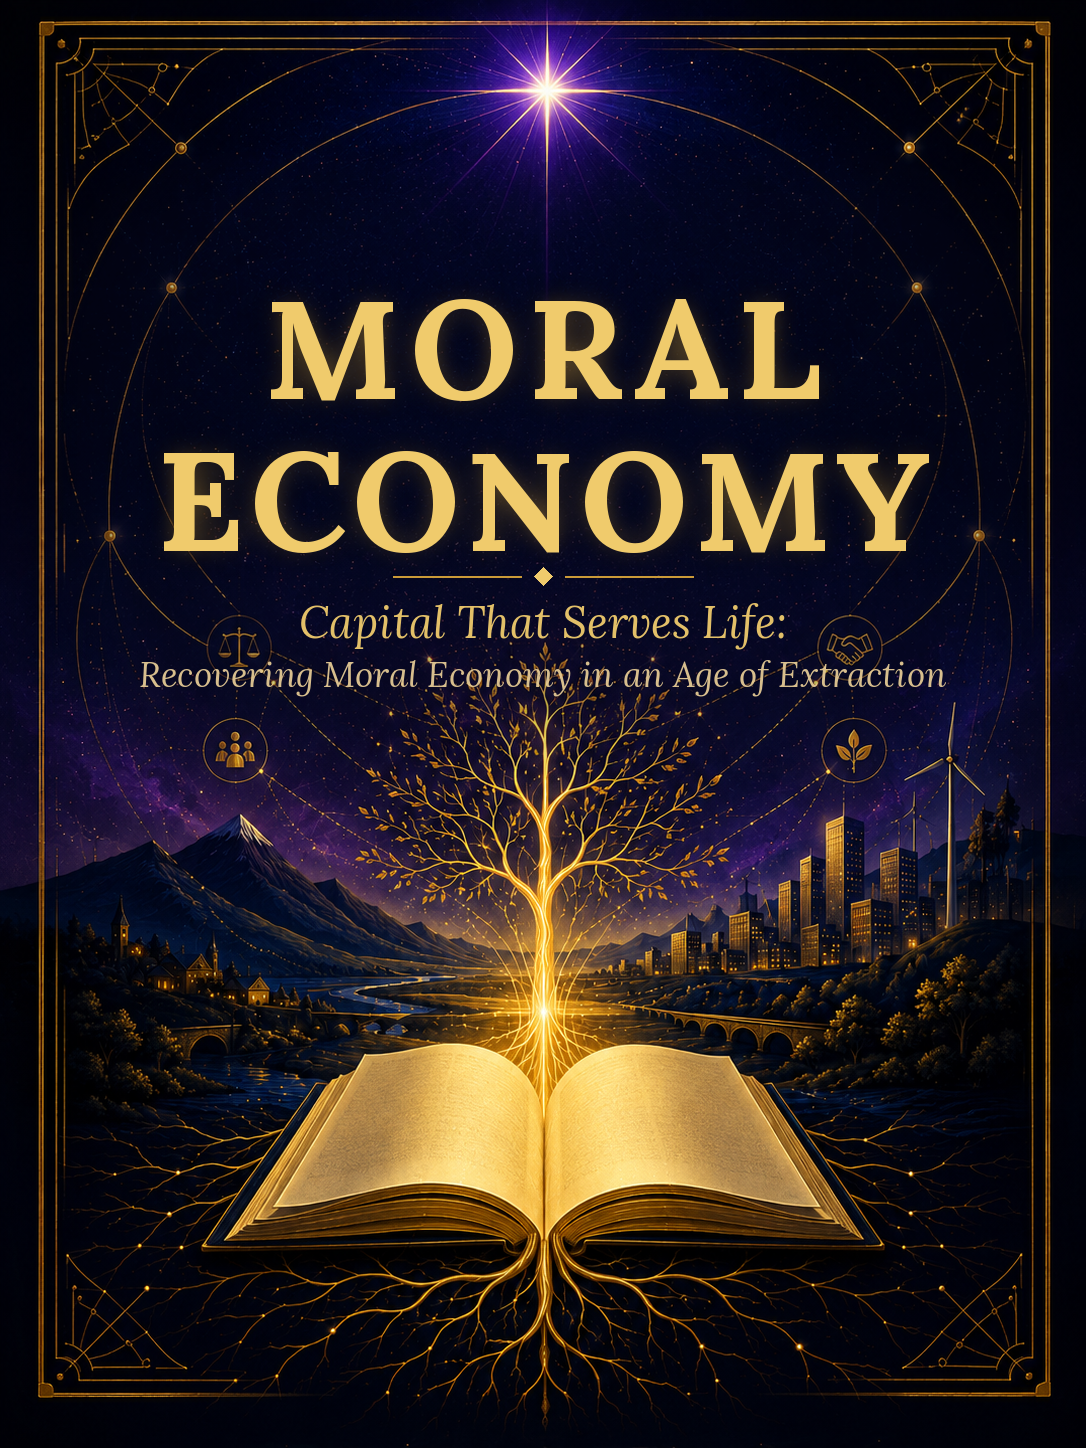
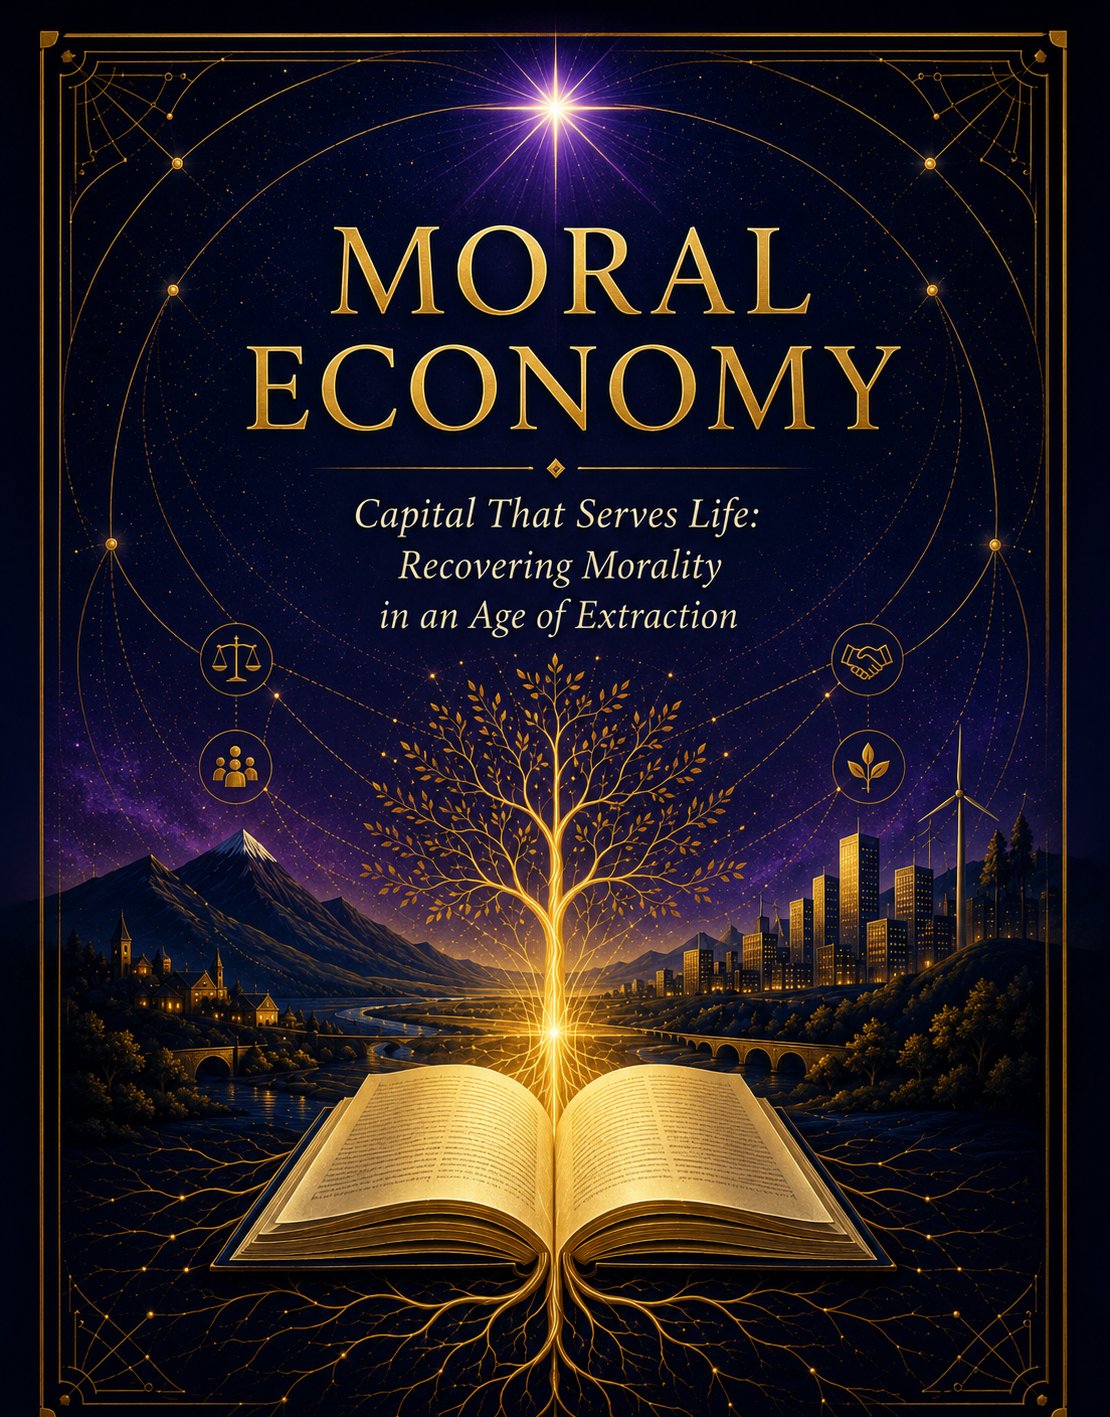
Swap in the finished ChatGPT Moral Economy cover; align subtitle
Use the finished ChatGPT-generated cover (title baked in) in place of the
composited one, and set the reader's subtitle to match it: 'Capital That
Serves Life: Recovering Morality in an Age of Extraction' (book.json + social
tags). Retire the typeset pipeline (tools/title_cover.py + raw art) now that
the cover is a single finished image like the sibling covers.

diff --git a/artifacts/book-reader/index.html b/artifacts/book-reader/index.html
@@ -4,14 +4,14 @@
     <meta charset="UTF-8" />
     <meta name="viewport" content="width=device-width, initial-scale=1.0, maximum-scale=1" />
     <title>Moral Economy</title>
-    <meta name="description" content="Moral Economy (Capital That Serves Life): recovering moral economy in an age of extraction. A reader on ownership, finance, stewardship, and an economy ordered toward life. Read the working manuscript online." />
+    <meta name="description" content="Moral Economy (Capital That Serves Life): recovering morality in an age of extraction. A reader on ownership, finance, stewardship, and an economy ordered toward life. Read the working manuscript online." />
     <meta name="robots" content="index, follow" />
     <meta property="og:title" content="Moral Economy" />
-    <meta property="og:description" content="Capital That Serves Life: recovering moral economy in an age of extraction. A reader on ownership, finance, stewardship, and an economy ordered toward life. Read the working manuscript online." />
+    <meta property="og:description" content="Capital That Serves Life: recovering morality in an age of extraction. A reader on ownership, finance, stewardship, and an economy ordered toward life. Read the working manuscript online." />
     <meta property="og:type" content="website" />
     <meta name="twitter:card" content="summary_large_image" />
     <meta name="twitter:title" content="Moral Economy" />
-    <meta name="twitter:description" content="Capital That Serves Life: recovering moral economy in an age of extraction. Read the working manuscript online." />
+    <meta name="twitter:description" content="Capital That Serves Life: recovering morality in an age of extraction. Read the working manuscript online." />
     <link rel="icon" type="image/svg+xml" href="/favicon.svg" />
     <link rel="preconnect" href="https://fonts.googleapis.com">
     <link rel="preconnect" href="https://fonts.gstatic.com" crossorigin>